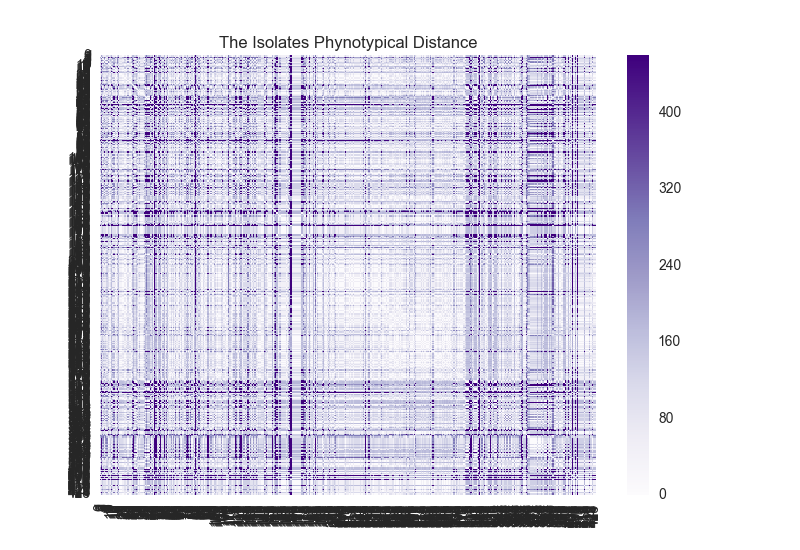
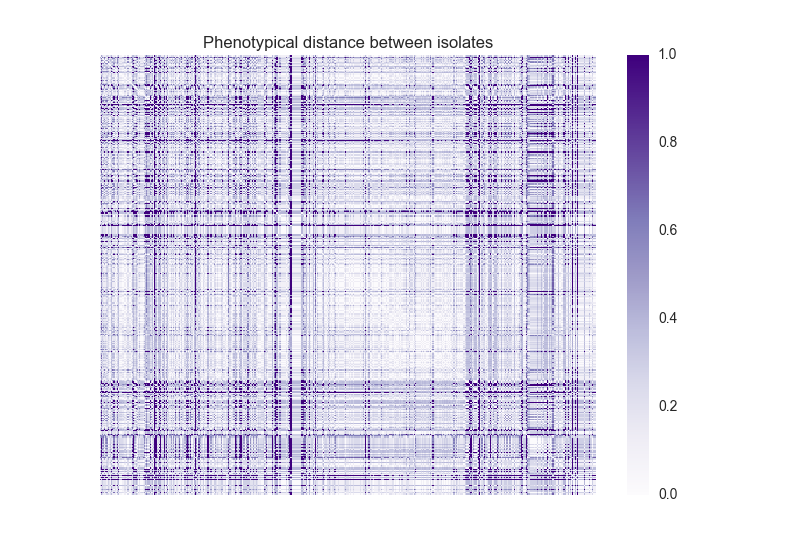
islolate rel

diff --git a/isolate_relation_analysis.py b/isolate_relation_analysis.py
@@ -2,6 +2,7 @@ import codecs
 import numpy as np
 from drug_relation_analysis import DrugRelation
 from visualization_utility import create_mat_plot
+from sklearn.preprocessing import MinMaxScaler
 
 class IsolatesRelations(object):
     '''
@@ -26,11 +27,15 @@ class IsolatesRelations(object):
         self.common_dist_phylogen=np.zeros((len(self.common_isolates),len(self.common_isolates)))
         self.common_dist_phenotype=np.zeros((len(self.common_isolates),len(self.common_isolates)))
         self.make_common_distances()
-
+        self.stndrd_common_dist_phylogen=MinMaxScaler().fit_transform(self.common_dist_phylogen.reshape([self.common_dist_phylogen.size, 1])).reshape(self.common_dist_phylogen.shape)
+        self.stndrd_common_dist_phenotype=MinMaxScaler().fit_transform(self.common_dist_phenotype.reshape([self.common_dist_phenotype.size, 1])).reshape(self.common_dist_phenotype.shape)
 
     def create_phenotype_phylog_image(self):
-        create_mat_plot(self.common_dist_phylogen, [], 'The Isolates Phylogenetic Distance', 'results/isolate_analysis/common_phyl', cmap='Purples', filetype='png')
-        create_mat_plot(self.common_dist_phenotype, [] , 'The Isolates Phynotypical Distance', 'results/isolate_analysis/common_phen', cmap='Purples', filetype='png')
+        '''
+        :return:
+        '''
+        create_mat_plot(self.stndrd_common_dist_phylogen, ['']*len(self.common_isolates), 'Phylogenetic distance between isolates', 'results/isolate_analysis/common_phyl', cmap='Purples', filetype='png')
+        create_mat_plot(self.stndrd_common_dist_phenotype,['']*len(self.common_isolates), 'Phenotypical distance between isolates', 'results/isolate_analysis/common_phen', cmap='Purples', filetype='png')
 
     def make_common_distances(self):
         '''
@@ -77,3 +82,4 @@ class IsolatesRelations(object):
 
 if __name__ == "__main__":
     IR = IsolatesRelations()
+
